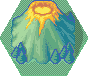
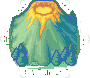
new graphic

diff --git a/game_map.py b/game_map.py
@@ -2,6 +2,7 @@ import math
 
 import pygame
 
+import colors
 import utils
 from global_sizes import Sizes
 from hexagon import Hexagon, Space, Terrain
@@ -17,7 +18,7 @@ HEX_EDGES = {
 
 
 class Map:
-	HEX_EDGE = Sizes.HEX_EDGE + 2
+	HEX_EDGE = Sizes.HEX_EDGE + 1
 	SCROLL_SPEED = int(HEX_EDGE * 8)
 
 	def __init__(self, path, timer):
@@ -43,19 +44,21 @@ class Map:
 		self.size = tuple(map_config.get('size', {'width': 10, 'height': 10}).values())
 		self.type = map_config.get('type', 'flat_topped')
 		rows = map_config.get('hexes', '')
-		for i in range(self.size[1]):
-			self.spaces.extend(rows.get('row' + str(i + 1), ['open' in range(self.size[0])]))
+		for i in range(1, self.size[1] + 1):
+			self.spaces.extend(rows.get('row' + str(i), ['open' in range(self.size[0])]))
 
 	def _create_map(self, edge):
 		hexes = []
+		print(self.size)
 		for i in range(self.size[1]):
 			for j in range(self.size[0]):
+				print(i * (self.size[0]) + j)
 				hexes.append(
 					Hexagon(
 						(j, i),
 						edge,
 						self.type,
-						Space(Terrain(self.spaces[i * self.size[0] + j])))
+						Space(Terrain(self.spaces[i * (self.size[0]) + j])))
 				)
 		return hexes
 
@@ -75,7 +78,7 @@ class Map:
 
 	def draw(self, surface):
 		surface.blit(self.surface, self.rect)
-		self.surface.fill((200, 200, 150))
+		self.surface.fill(colors.MAP)
 		for hexagon in self.hexes:
 			hexagon.draw(self.surface)
 

diff --git a/hexagon.py b/hexagon.py
@@ -19,7 +19,13 @@ BLACK = (0, 0, 0)
 class Terrain:
 	TERRAN_TABLE = {
 		'rock': (False, True),
-		'open': (True, False)
+		'open': (True, False),
+		'road14': (True, False),
+		'city': (True, True),
+		'industry': (True, True),
+		'city_center': (True, True),
+		'suburbia': (True, True),
+		'forest': (True, True)
 	}
 
 	def __init__(self, terrain_type):
@@ -156,4 +162,5 @@ class Hexagon:
 		color = Colors.INFO
 		container.append(self.container.image)
 		container.append(font.render(''.join(str('Type   ' + self.container.terrain.type)), True, color))
+		container.append(font.render(str(self.axial[0] + self.axial[1] * 32), True, color))     # Debug
 		return container

diff --git a/maneuver_state.py b/maneuver_state.py
@@ -42,7 +42,7 @@ class Maneuver(State):
 			for hexagon in self.reachable_hexes:
 				if hexagon.container.unit is not None:
 					continue
-				hexagon.draw_midpoint(self.game.map.surface, Sizes.RATIO // 4, Colors.INFO)
+				hexagon.draw_midpoint(self.game.map.surface, Sizes.RATIO // 4, Colors.RED)
 		if not self.current_hex_line or not self.current_hex:
 			return
 		for hexagon in self.current_hex_line:

diff --git a/on_map_object.py b/on_map_object.py
@@ -107,7 +107,7 @@ class Unit(OnMapObject):
 		self.current_speed = self.SPEED * self.timer.dt
 
 		# sounds
-		self.move_sound = sounds.SOUNDS.march if self.name[0] == 'i' else sounds.SOUNDS.move
+		self.move_sound = sounds.SOUNDS.march if self.name[0] == 'i' or self.name[0] == 'a' else sounds.SOUNDS.move
 
 	def update(self):
 		if not self.is_alive:

diff --git a/colors.py b/colors.py
@@ -10,3 +10,4 @@ INFO = (203, 193, 163)
 MAP = (240, 255, 240)
 ROAD = (230, 210, 200)
 RIVER = (0, 150, 255)
+MAP = (130, 205, 130)
